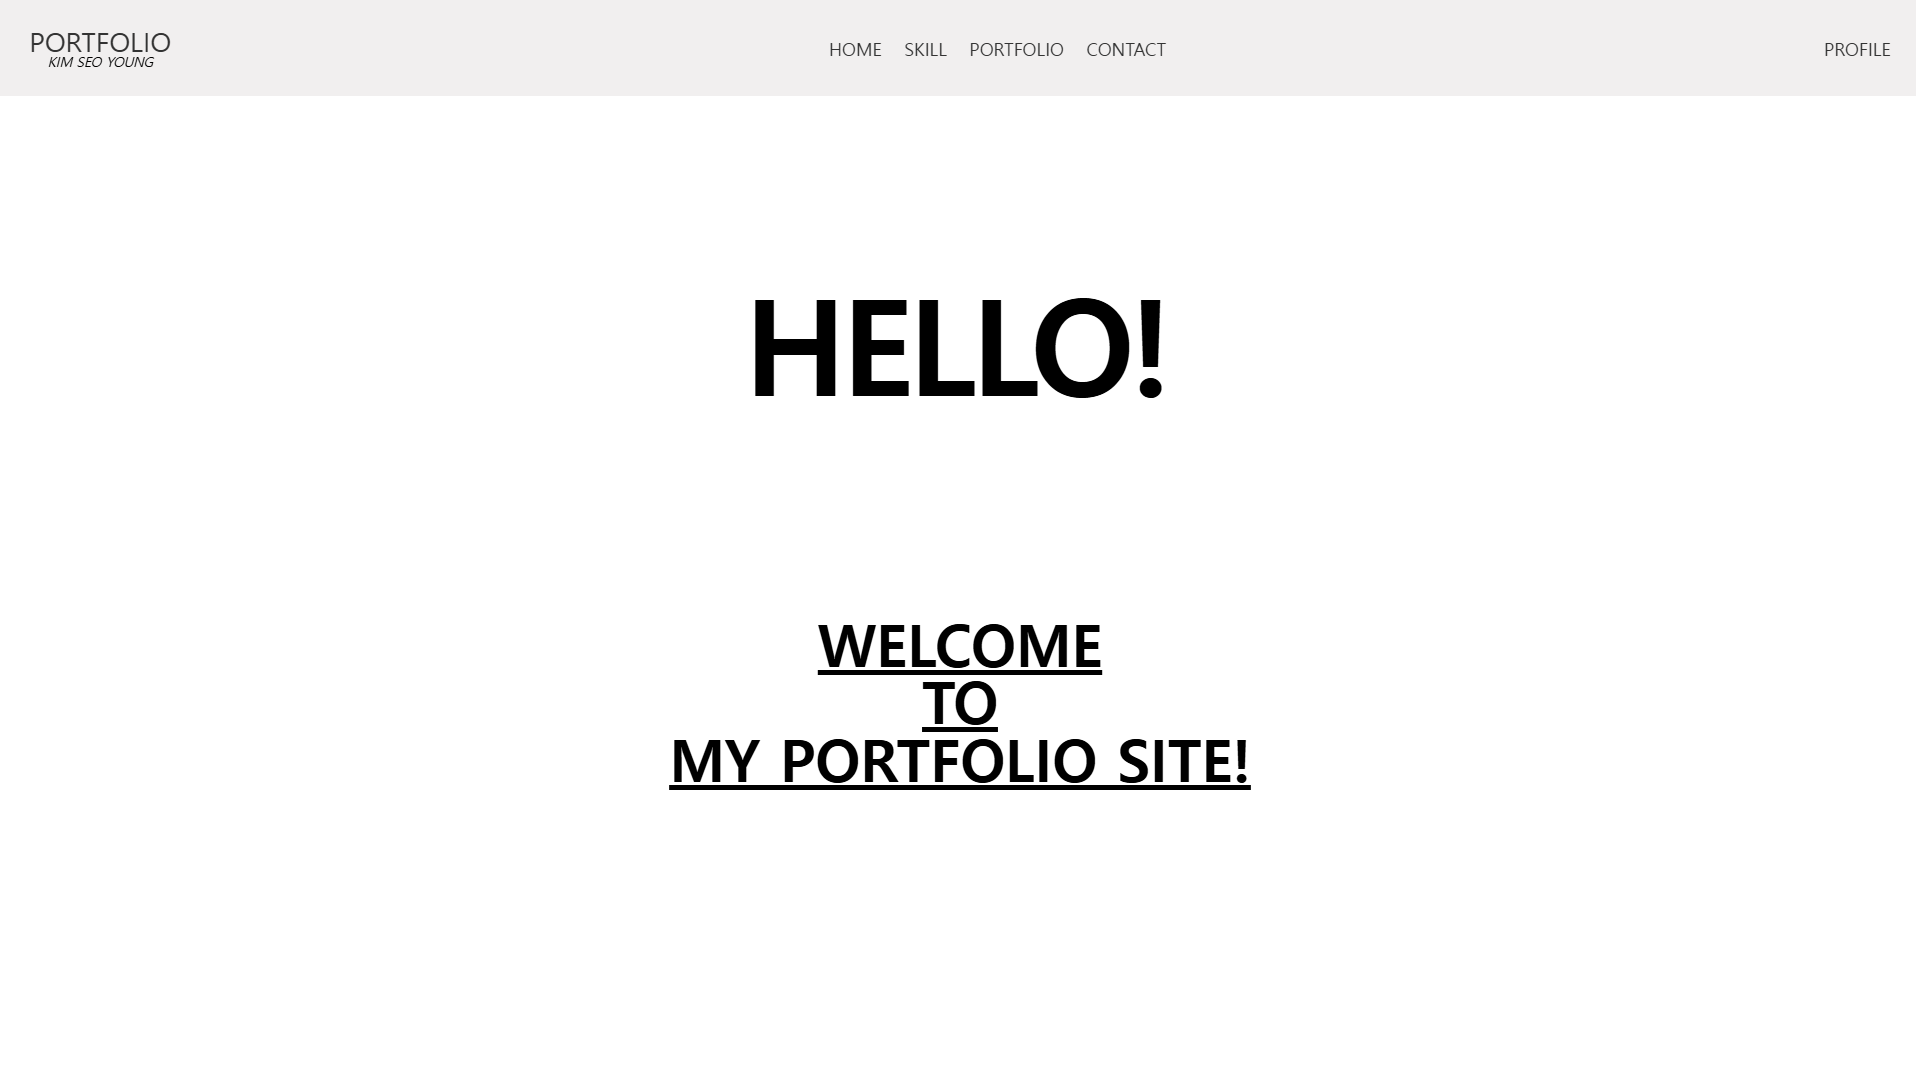
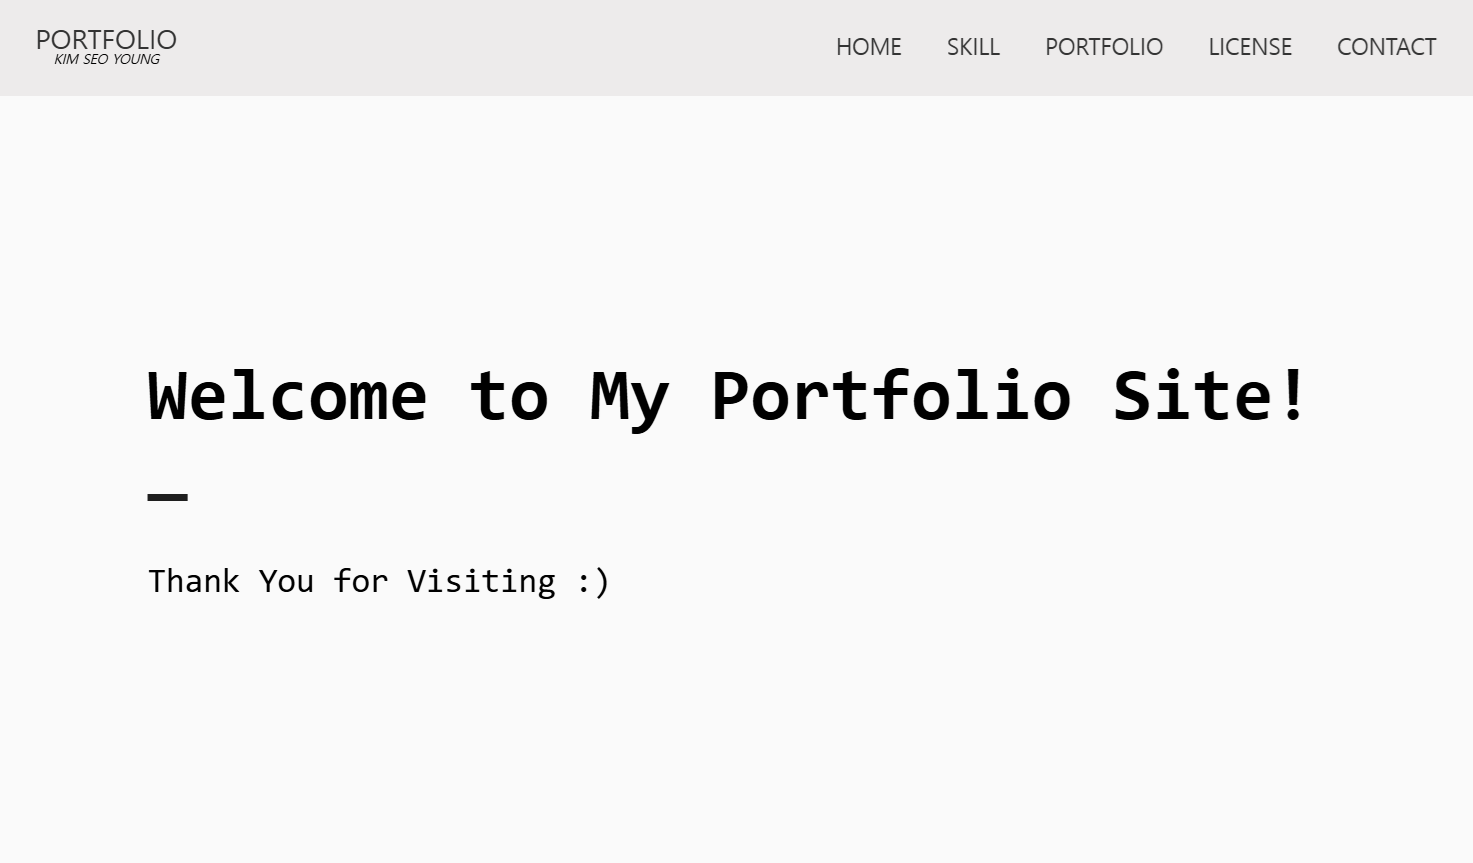
scss

diff --git a/src/components/Portfolio.vue b/src/components/Portfolio.vue
@@ -116,7 +116,7 @@ const uniqueTypes = computed(() => {
       left: -9999px;
 
       &:checked+h3 {
-        background-color: rgba(116, 99, 99, 0.1);
+        background-color: #EDEBEB;
 
         &:before {
           box-shadow: inset 0 0 0 0.4375em black;
@@ -130,9 +130,10 @@ const uniqueTypes = computed(() => {
       padding: 0.375em 0.75em 0.375em 0.375em;
       border-radius: 99em;
       transition: 0.25s ease;
+      background-color:#FAFAFA;
 
       &:hover {
-        background-color: rgba(116, 99, 99, 0.1);
+        background-color: #EDEBEB;
       }
 
       &:before {

diff --git a/src/components/Skills.vue b/src/components/Skills.vue
@@ -26,15 +26,11 @@ import { skillText } from "../constants";
                                 </div>
                             </div>
                         </section>
-
                     </div>
-
                 </article>
-
             </div>
         </div>
     </section>
-
 </template>
 
 <style lang="scss">
@@ -110,7 +106,7 @@ import { skillText } from "../constants";
         }
 
         .content_text {
-            border-left: 1px solid #e0e0e0;
+            border-left: 1px solid #C4C3C3;
 
             ul {
                 padding: 0;

diff --git a/src/components/Home.vue b/src/components/Home.vue
@@ -4,7 +4,7 @@
       <div class="home_text">
         <h1>Welcome to My Portfolio Site!</h1>
         <span class="cursor">_</span>
-        <p>Thank You for Visiting</p>
+        <p>Thank You for Visiting :)</p>
       </div>
     </div>
   </section>
